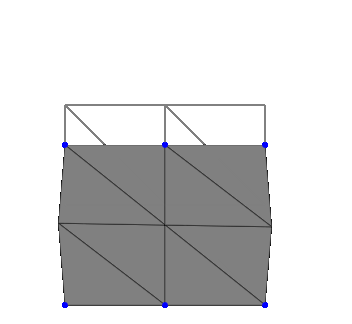
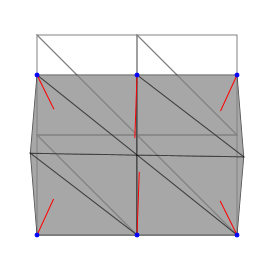
modify images and sample codes

diff --git a/No4/index.html b/No4/index.html
@@ -16,7 +16,8 @@
         <p>
             <a href="http://www.natural-science.or.jp/article/20130922210408.php">第1回　メッシュのデータ構造とCanvas要素による描画</a><br />
             <a href="http://www.natural-science.or.jp/article/20131102210939.php">第2回　Numeric.jsによる線形代数</a><br />
-            <a href="http://www.natural-science.or.jp/article/20131102210939.php">第3回　変形の表現と境界条件</a>
+	        <a href="http://www.natural-science.or.jp/article/20131201161759.php">第3回　変形の表現と境界条件</a><br />
+            <a href="http://www.natural-science.or.jp/article/20150401013747.php">第4回　全体剛性マトリクスの組み立てと剛性方程式の求解</a>
         </p>
         <p>
         第4回では全体剛性マトリクスの組み立てと剛性方程式の求解について説明します．
@@ -26,7 +27,7 @@
         <h3>要素剛性マトリクス</h3>
         <p>
         三角形定ひずみ要素の場合，
-        要素剛性マトリクスは次式のように，行列積で求められます．
+        要素剛性マトリクスは次式のように行列積で求められます．
         </p>
         <p style="text-align:center">
             <img src="http://www.natural-science.or.jp/images/sase-fem-4-1.png"
@@ -65,12 +66,11 @@
         </p>
         <p>	
         今回はマトリクス D, Be が何を意味するのかには触れませんが，今後の記事の中で必要に応じて説明したいと思います．
-		要素剛性マトリクスが上記の式によって求められることを認めるとして，実装はどのようにしたらよいかを考えます．
-        ここでは，要素剛性マトリクスを配列に格納するコードの流れを示します．
+		要素剛性マトリクスが上記の式によって求められることを認めるとして，実装について考えることにします．
         以下の疑似コードを参照してください．
 		これまでの記事で，メッシュの形状に関する情報はすでに用意してあるので，
-		新たな情報としてヤング率，ポアソン比，材料の厚さを与えることで要素剛性マトリクスが構成できることが
-		確認できます．
+		新たな情報としてヤング率，ポアソン比，材料の厚さの材料特性に関する値が必要となります．
+		材料特性と節点の初期位置，三角形の節点番号リストがあれば要素剛性マトリクスが作成できます．
 		JavaScriptによる実装は記事の最後にまとめて示しますので，
 		詳細な実装を確認したい方は最後のfem.js で定義されている FEM.assembleStiffnessMatrix メソッドを参照してください．
         </p>
@@ -99,13 +99,13 @@
         }
         </pre>
         <p>
-        ※ 実際のコードでは行列積は numericjs で実装することになります．<br>
-        ※ calcD(), calcAe(), calcBe()は上記の式に従って定義する必要があります．<br>
+        ※ 実際のコードでは行列演算を numeric.js で実装することになります．<br>
+        ※ calcD(), calcAe(), calcBe() は上記の式に従って定義する必要があります．<br>
         ※ x0, y0... は数式と合わせるために追加した変数であり，実際にはこのように一時的に変数に格納する必要はありません．
         </p>
         <h3>全体剛性マトリクスの組み立て</h3>
         <p>
-		要素剛性マトリクスを元に，全体剛性マトリクスを組み立てます．
+		要素剛性マトリクスを元に全体剛性マトリクスを組み立てます．
         第１回で扱った下図に示す２つの三角形からなるメッシュを題材に説明します．
         </p>
         <p style="text-align:center">
@@ -139,7 +139,7 @@
         全体剛性マトリクスの該当箇所に順に足しこむことで目的が達成できます．
 		以下に疑似コードを示します．詳細な実装は記事の最後に示す fem.js の FEM.assembleStiffnessMatrix メソッドを参照してください．
         </p>
-        <pre class="brush: js; highlight:[9, 10, 11];">
+        <pre class="brush: js; highlight:[8, 9, 10];">
         // 疑似コード
         // K:        全体剛性マトリクス
         
@@ -150,7 +150,6 @@
                     K(tri[e][i], tri[e][j]) += Ke[e](i, j);		
                     // ↑注意: 疑似コード 
                     // K(a, b) はKを2×2ごとに分割したときの a行 b列 部分行列を表すものとして記述した
-                    
                 }
             }
         }
@@ -187,24 +186,27 @@
                  alt="" />
         </p>
         <p>
-        このように分割すると，uf, fd が未知数でその他は既知となります．まず，uf は次の連立一次方程式を解くことで得られます．
+        このように分割すると，uf, fd が未知数でその他は既知となります．まず，未知変数 uf は次の連立一次方程式を解くことで得られます．
         </p>
         <p style="text-align:center">
             <img src="http://www.natural-science.or.jp/images/sase-fem-4-solve.png"
                  alt="" />
         </p>
         <p>
-        次に，得られた uf を用いて fd は次の式により求められます．
+        次に，得られた uf を用いて もうひとつの未知変数 fd を次の式により求められます．
         </p>
         <p style="text-align:center">
             <img src="http://www.natural-science.or.jp/images/sase-fem-4-fd.png"
                  alt="" />
         </p>
+		<p>
+		uf, fd が求められたら全体変位ベクトル，全体外力ベクトル，節点の現在位置を更新することができます．
+		</p>
         <p>
        さて，Kff, Kfd, Kdf, Kdd を作成するにはどうすればよいでしょうか．
        第3回で uf, ud, ff, fd の作成のために用いた， dlist, flist という配列をここでも用います．
-       Kffの作成のコードを以下示します．
-       なお，ハイライトした行は続くKfd作成コードと異なる行です．
+       Kff の作成のコードを以下示します．
+       なお， Kff 作成コードとその下で示す Kfd 作成コードを比較する参考のために行をハイライトしました．
        </p>
 		<pre class="brush: js; highlight:[2, 5];">
         	for(var i = 0; i < flist.length; ++i){
@@ -218,7 +220,7 @@
             }
         </pre>
         <p>
-        Kfdは以下のように作成できます．
+        Kfd は以下のように作成できます．
         </p>
 		<pre class="brush: js; highlight:[2, 5];">
         	for(var i = 0; i < flist.length; ++i){
@@ -235,11 +237,13 @@
         Kdf, Kdd も同様に作成することができますが，
 		Kは対称行列となるため Kdf は Kfd の転置行列となり処理を省くことができます．
         </p>
+		
+		
 		<h3>剛性方程式求解の結果の例</h3>
 		<p>
 		実装は次節に掲載しましたので，そちらを参考いただき，先に結果を示します．<br>
 		main.js のメッシュ生成部と境界条件部を変更し，剛性方程式を解いた後に得られた
-		変形形状を描画してみます．<br>
+		変形形状と等価節点外力を描画してみます．<br>
 		</p>
 		<pre class="brush: js;">
 	// 三角形メッシュ生成
@@ -303,10 +307,20 @@
         </p>
 		<p>
 		以上のように，板状の物体を引き延ばした様子が計算されました．
-		引き延ばすと板の中央部分がくびれる様子は見た目では妥当な挙動と思われます．
-		ここで得られた数値解が偏微分方程式の厳密解と一致するかどうか，今後の記事で検証しようと思います．
+		引き延ばすと板の中央部分がくびれる様子は妥当な挙動のように思われます．
+		等価節点外力も何となく妥当な分布を示しているように見えますが，これで良いのかどうかは判断が難しいですね．
+		一般的に正しい解析が行われているかどうかを判断するため，
+		数値解が偏微分方程式の厳密解と一致するかどうかを検証する必要があります．
+		これについては今後の記事で説明する予定です．
 		</p>
+		
+		
+		
+		
         <h3>JavaScriptによる実装</h3>
+		<p><a href="http://www.natural-science.or.jp/images/sase-fem-4-sample.zip">サンプルコード（zipファイル）</a>
+
+</p>
 		<p>
 		前回と同じように同一ディレクトリに index.html, main.js, fem.js, numeric-1.2.6.min.js を配置します．
 		numeric-1.2.6.min.js は配布ページからダウンロードしたものを用いてください．
@@ -547,106 +561,123 @@ FEM.prototype.solve = function (){
 </pre>
 <h4>main.js</h4>
 <p>
-main.js は以下のように メソッド assembleStiffnessMatrix() と solve() の呼び出しを追加するだけです．
+main.js は以下のように メソッド assembleStiffnessMatrix() と solve() の呼び出しと，
+等価節点外力の描画を追加します．
+また，メッシュの描画の様子がわかりやすいように色・透明度・塗りなどを変更しました．
 </p>
-<pre class="brush: js; highlight:[5,6,7,8,9,10,11,12,13,14,15,16,17,18,19,20,21]">
+<pre class="brush: js; highlight:[5,6,7,8,9,10,11,12,13,14,15,16,17,18,19,20,21,43,44,45,46,47,49,50,51,52,53,54,55,56,57,59,60,61,62,63,64,65,97,98,99,100,101,102,103,104,105]">
 // JavaScript source code
 // HTMLを読み終わった後に実行する関数
 $(document).ready(function () {
  
-	// FEMクラスのインスタンス化
-	var young = 1e6;
-	var poisson = 0.4;
-	var thickness = 1.0;
-	var fem=new FEM(young, poisson, thickness);
-	 
-	// 三角形メッシュ生成
-	fem.generateTriangleMesh(200, 200, 2, 2);
+    // FEMクラスのインスタンス化
+    var young     = 1e6;    // ヤング率
+    var poisson   = 0.4;    // ポアソン比
+    var thickness = 1.0;    // 厚さ
+    var fem=new FEM(young, poisson, thickness);
+     
+    // 三角形メッシュ生成
+    fem.generateTriangleMesh(200, 200, 5, 5);
+     
+    // 剛性マトリクスの組立
+    fem.assembleStiffnessMatrix();
+      
+    // 境界条件の設定
+    fem.setBoundaryCondition(0, 200, [20, 40]);
 
-	// 剛性マトリクスの組立
-	fem.assembleStiffnessMatrix();
-	 
-	// 境界条件の設定
-	fem.setBoundaryCondition(0, 200, [0, -40]);
+    // 剛性方程式の求解
+    fem.solve();
 
-	// 剛性方程式の求解
-	fem.solve();
+    // 変位ベクトルによる現在形状の更新
+    for(var i=0; i&lt;fem.pos.length; i++) {
+        for(var j=0; j&lt;2; j++){
+            fem.pos[i][j] = fem.initpos[i][j] + fem.u[2*i+j];
+        }
+    }
+     
+    // 2dコンテキスト取得
+    var canvas  = $(&quot;#model_viewer&quot;);
+    var context = canvas.get(0).getContext(&quot;2d&quot;);
+    canvas.get(0).width  = canvas.get(0).clientWidth;
+    canvas.get(0).height = canvas.get(0).clientHeight;
+    var canvasWidth  = canvas.get(0).width;
+    var canvasHeight = canvas.get(0).height;
+ 
+    // 座標変換
+    var xzero = canvasWidth*0.5; // キャンバス要素の幅の半分
+    var yzero = canvasHeight*0.9; // キャンバス要素の高さの90%の部分
+    context.setTransform(1, 0, 0, -1, xzero, yzero);
+ 
+    // 初期形状の描画
+    context.strokeStyle = &#039;gray&#039;;
+    for(var i=0; i&lt;fem.tri.length; i++) {
+        drawtri(fem.initpos[fem.tri[i][0]], fem.initpos[fem.tri[i][1]], fem.initpos[fem.tri[i][2]]);
+    }
+ 
+    // 現在形状の描画
+    context.strokeStyle = &#039;black&#039;;
+    context.fillStyle   = &#039;gray&#039;;
+    context.globalAlpha = 0.7;
+    for(var i=0; i&lt;fem.tri.length; i++) {
+        drawtri(fem.pos[fem.tri[i][0]], fem.pos[fem.tri[i][1]], fem.pos[fem.tri[i][2]]);
+        filltri(fem.pos[fem.tri[i][0]], fem.pos[fem.tri[i][1]], fem.pos[fem.tri[i][2]]);
+    }
+    context.globalAlpha = 1.0;
 
-	// 変位ベクトルによる現在形状の更新
-	for(var i=0; i&lt;fem.pos.length; i++) {
-		for(var j=0; j&lt;2; j++){
-			fem.pos[i][j] = fem.initpos[i][j] + fem.u[2*i+j];
-		}
-	}
-	 
-	// 2dコンテキスト取得
-	var canvas = $(\&quot;#model_viewer\&quot;);
-	var context = canvas.get(0).getContext(\&quot;2d\&quot;);
-	canvas.get(0).width = canvas.get(0).clientWidth;
-	canvas.get(0).height = canvas.get(0).clientHeight;
-	var canvasWidth = canvas.get(0).width;
-	var canvasHeight = canvas.get(0).height;
- 
-	// 座標変換
-	var xzero = canvasWidth*0.5; // キャンバス要素の幅の半分
-	var yzero = canvasHeight*0.9; // キャンバス要素の高さの90%の部分
-	context.setTransform(1, 0, 0, -1, xzero, yzero);
- 
-	// 初期形状の描画
-	context.strokeStyle = \'black\';
-	for(var i=0; i&lt;fem.tri.length; i++) {
-		drawtri(fem.initpos[fem.tri[i][0]], fem.initpos[fem.tri[i][1]], fem.initpos[fem.tri[i][2]]);
-	}
- 
-	// 現在形状の描画
-	context.strokeStyle = \'red\';
-	for(var i=0; i&lt;fem.tri.length; i++) {
-		drawtri(fem.pos[fem.tri[i][0]], fem.pos[fem.tri[i][1]], fem.pos[fem.tri[i][2]]);
-	}
+    // 等価節点外力の描画
+    context.strokeStyle = &#039;red&#039;;
+    for(var i=0; i&lt;fem.pos.length; ++i) {
+        var fScale = 3e-6;
+        var fDist = numeric.add(fem.pos[i], [fScale*fem.f[2*i], fScale*fem.f[2*i+1]]);
+        drawLine(fem.pos[i], fDist);
+    }
 
-	// 変位既知節点の描画
-	context.strokeStyle=\'blue\';
-	context.fillStyle=\'blue\';
-	for(var i=0; i&lt;fem.dlist.length; i++) {
-		drawCircle(fem.pos[fem.dlist[i]], 5);
-	}
-	// 外力既知節点の描画
-	context.strokeStyle=\'green\';
-	context.fillStyle=\'green\';
-	for(var i=0; i&lt;fem.flist.length; i++) {
-		drawCircle(fem.pos[fem.flist[i]], 5);
-	}
+    // 変位既知節点の描画
+    context.strokeStyle = &#039;blue&#039;;
+    context.fillStyle   = &#039;blue&#039;;
+    for(var i=0; i&lt;fem.dlist.length; i++) {
+        drawCircle(fem.pos[fem.dlist[i]], 2);
+    }
  
-	// 線の描画関数
-	function drawLine(p1, p2) {
-		context.beginPath();
-		context.moveTo(p1[0], p1[1]);
-		context.lineTo(p2[0], p2[1]);
-		context.stroke();
-	}
-	// 円の描画関数
-	function drawCircle(p, radius) {
-		context.beginPath();
-		context.arc(p[0], p[1], radius, 0, 2*Math.PI, true);
-		context.stroke();
-		context.fill();
-	}
-	// 三角形の描画関数
-	function drawtri(p1, p2, p3) {
-		context.beginPath();
-		context.moveTo(p1[0], p1[1]);
-		context.lineTo(p2[0], p2[1]);
-		context.lineTo(p3[0], p3[1]);
-		context.closePath();
-		context.stroke();
-	}
+    // 線の描画関数
+    function drawLine(p1, p2) {
+        context.beginPath();
+        context.moveTo(p1[0], p1[1]);
+        context.lineTo(p2[0], p2[1]);
+        context.stroke();
+    }
+    // 円の描画関数
+    function drawCircle(p, radius) {
+        context.beginPath();
+        context.arc(p[0], p[1], radius, 0, 2*Math.PI, true);
+        context.stroke();
+        context.fill();
+    }
+    // 三角形の描画関数
+    function drawtri(p1, p2, p3) {
+        context.beginPath();
+        context.moveTo(p1[0], p1[1]);
+        context.lineTo(p2[0], p2[1]);
+        context.lineTo(p3[0], p3[1]);
+        context.closePath();
+        context.stroke();
+    }
+    // 三角形の描画関数
+    function filltri(p1, p2, p3) {
+        context.beginPath();
+        context.moveTo(p1[0], p1[1]);
+        context.lineTo(p2[0], p2[1]);
+        context.lineTo(p3[0], p3[1]);
+        context.closePath();
+        context.fill();
+    }
 });
 </pre>
 <h4>index.html</h4>
 <p>
 index.htmlは変更がありませんが，再掲します．
 </p>
-<pre class="brush: js; highlight:[5,6,7,8,9,10,11,12,13,14,15,16,17,18,19,20,21]">
+<pre class="brush: js;">
 &lt;!doctype html&gt;
 &lt;html&gt;
 &lt;head&gt;
@@ -678,7 +709,9 @@ index.htmlは変更がありませんが，再掲します．
         <p>
         <a href="http://www.natural-science.or.jp/article/20130922210408.php">第1回　メッシュのデータ構造とCanvas要素による描画</a><br />
         <a href="http://www.natural-science.or.jp/article/20131102210939.php">第2回　Numeric.jsによる線形代数</a><br />
-        <a href="http://www.natural-science.or.jp/article/20131102210939.php">第3回　変形の表現と境界条件</a>
+        <a href="http://www.natural-science.or.jp/article/20131201161759.php">第3回　変形の表現と境界条件</a><br />
+        <a href="http://www.natural-science.or.jp/article/20150401013747.php">第4回　全体剛性マトリクスの組み立てと剛性方程式の求解</a>
+		
         </p>
 		
 		<!--
